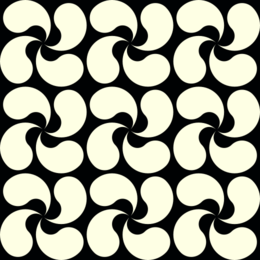
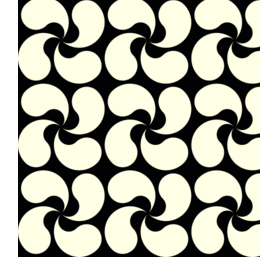
You have come a long way
put a background image
created a table for your links
created an editable region for your content on all of your pages
tomorrow create a folder for your images
import them
continue with the content and then email ralph

diff --git a/Final Project/new-file.html b/Final Project/new-file.html
@@ -3,28 +3,44 @@
 <head>
 <meta http-equiv="Content-Type" content="text/html; charset=utf-8" />
 <!-- InstanceBeginEditable name="doctitle" -->
-<title>Untitled Document</title>
+<div class="wrapper">
+  <div class="navigation">
+    <h1 align="center"> <strong>The Classic Five </strong></h1>
+    <table width="925">
+      <tr>
+        <td width="184"><div align="center"><a href="index.html">Home</a></div></td>
+        <td width="184"><div align="center"><a href="david-ruffin.html">David Ruffin</a></div></td>
+        <td width="184"><div align="center"><a href="eddie-kendricks.html">Eddie Kendricks </a></div></td>
+        <td width="184"><div align="center"><a href="melvin-franklin.html">Melvin Franklin</a></div></td>
+        <td width="184"><div align="center"><a href="paul-williams.html">Paul Williams </a></div></td>
+      	<td width="184"><div align="center"><a href="otis-williams.html">Otis Williams </a></div></td>
+        </tr>
+    </table>
+  </div> 
+  <div class="content"> </div>
+</div>
 <!-- InstanceEndEditable -->
 <!-- InstanceBeginEditable name="head" -->
-content<!-- InstanceEndEditable -->
+<!-- InstanceEndEditable -->
 <link href="styles.css" rel="stylesheet" type="text/css" />
 </head>
 
 <body>
 <div class="wrapper">
   <div class="navigation">
-    <h1 align="center"><strong>The Classic Five </strong></h1>
-    <table width="829">
+    <h1 align="center"> <strong>The Classic Five </strong></h1>
+    <table width="925">
       <tr>
-        <td width="110" height="50"><a href="index.html">Home</a></td>
-        <td width="164"><a href="david-ruffin.html">David Ruffin</a></td>
-        <td width="146"><a href="eddie-kendricks.html">Eddie Kendricks </a></td>
-        <td width="171"><a href="melvin-franklin.html">Melvin Franklin</a></td>
-        <td width="131"><a href="paul-williams.html">Paul Williams </a></td>
-      </tr>
+        <td width="184"><div align="center"><a href="index.html">Home</a></div></td>
+        <td width="184"><div align="center"><a href="david-ruffin.html">David Ruffin</a></div></td>
+        <td width="184"><div align="center"><a href="eddie-kendricks.html">Eddie Kendricks </a></div></td>
+        <td width="184"><div align="center"><a href="melvin-franklin.html">Melvin Franklin</a></div></td>
+        <td width="184"><div align="center"><a href="paul-williams.html">Paul Williams </a></div></td>
+      	<td width="184"><div align="center"><a href="otis-williams.html">Otis Williams </a></div></td>
+        </tr>
     </table>
-  </div>
-  <div class="content"> </div>
+  </div> 
+  <div class="content"><!-- InstanceBeginEditable name="home" --> This is the content for my homepage and I am starving<!-- InstanceEndEditable --></div>
 </div>
 </body>
 <!-- InstanceEnd --></html>

diff --git a/Final Project/david-ruffin.html b/Final Project/david-ruffin.html
@@ -1,10 +1,31 @@
 <!DOCTYPE html PUBLIC "-//W3C//DTD XHTML 1.0 Transitional//EN" "http://www.w3.org/TR/xhtml1/DTD/xhtml1-transitional.dtd">
-<html xmlns="http://www.w3.org/1999/xhtml">
+<html xmlns="http://www.w3.org/1999/xhtml"><!-- InstanceBegin template="/Templates/Master Template.dwt" codeOutsideHTMLIsLocked="false" -->
 <head>
 <meta http-equiv="Content-Type" content="text/html; charset=utf-8" />
+<!-- InstanceBeginEditable name="doctitle" -->
 <title>Untitled Document</title>
+<!-- InstanceEndEditable -->
+<!-- InstanceBeginEditable name="head" -->
+<!-- InstanceEndEditable -->
+<link href="styles.css" rel="stylesheet" type="text/css" />
 </head>
 
 <body>
+<div class="wrapper">
+  <div class="navigation">
+    <h1 align="center"> <strong>The Classic Five </strong></h1>
+    <table width="925">
+      <tr>
+        <td width="184"><div align="center"><a href="index.html">Home</a></div></td>
+        <td width="184"><div align="center"><a href="david-ruffin.html">David Ruffin</a></div></td>
+        <td width="184"><div align="center"><a href="eddie-kendricks.html">Eddie Kendricks </a></div></td>
+        <td width="184"><div align="center"><a href="melvin-franklin.html">Melvin Franklin</a></div></td>
+        <td width="184"><div align="center"><a href="paul-williams.html">Paul Williams </a></div></td>
+      	<td width="184"><div align="center"><a href="otis-williams.html">Otis Williams </a></div></td>
+        </tr>
+    </table>
+  </div> 
+  <div class="content"><!-- InstanceBeginEditable name="home" --> This is the content for my homepage and I am starving<!-- InstanceEndEditable --></div>
+</div>
 </body>
-</html>
+<!-- InstanceEnd --></html>

diff --git a/Final Project/eddie-kendricks.html b/Final Project/eddie-kendricks.html
@@ -1,10 +1,31 @@
 <!DOCTYPE html PUBLIC "-//W3C//DTD XHTML 1.0 Transitional//EN" "http://www.w3.org/TR/xhtml1/DTD/xhtml1-transitional.dtd">
-<html xmlns="http://www.w3.org/1999/xhtml">
+<html xmlns="http://www.w3.org/1999/xhtml"><!-- InstanceBegin template="/Templates/Master Template.dwt" codeOutsideHTMLIsLocked="false" -->
 <head>
 <meta http-equiv="Content-Type" content="text/html; charset=utf-8" />
+<!-- InstanceBeginEditable name="doctitle" -->
 <title>Untitled Document</title>
+<!-- InstanceEndEditable -->
+<!-- InstanceBeginEditable name="head" -->
+<!-- InstanceEndEditable -->
+<link href="styles.css" rel="stylesheet" type="text/css" />
 </head>
 
 <body>
+<div class="wrapper">
+  <div class="navigation">
+    <h1 align="center"> <strong>The Classic Five </strong></h1>
+    <table width="925">
+      <tr>
+        <td width="184"><div align="center"><a href="index.html">Home</a></div></td>
+        <td width="184"><div align="center"><a href="david-ruffin.html">David Ruffin</a></div></td>
+        <td width="184"><div align="center"><a href="eddie-kendricks.html">Eddie Kendricks </a></div></td>
+        <td width="184"><div align="center"><a href="melvin-franklin.html">Melvin Franklin</a></div></td>
+        <td width="184"><div align="center"><a href="paul-williams.html">Paul Williams </a></div></td>
+      	<td width="184"><div align="center"><a href="otis-williams.html">Otis Williams </a></div></td>
+        </tr>
+    </table>
+  </div> 
+  <div class="content"><!-- InstanceBeginEditable name="home" --> This is the content for my homepage and I am starving<!-- InstanceEndEditable --></div>
+</div>
 </body>
-</html>
+<!-- InstanceEnd --></html>

diff --git a/Final Project/melvin-franklin.html b/Final Project/melvin-franklin.html
@@ -1,10 +1,31 @@
 <!DOCTYPE html PUBLIC "-//W3C//DTD XHTML 1.0 Transitional//EN" "http://www.w3.org/TR/xhtml1/DTD/xhtml1-transitional.dtd">
-<html xmlns="http://www.w3.org/1999/xhtml">
+<html xmlns="http://www.w3.org/1999/xhtml"><!-- InstanceBegin template="/Templates/Master Template.dwt" codeOutsideHTMLIsLocked="false" -->
 <head>
 <meta http-equiv="Content-Type" content="text/html; charset=utf-8" />
+<!-- InstanceBeginEditable name="doctitle" -->
 <title>Untitled Document</title>
+<!-- InstanceEndEditable -->
+<!-- InstanceBeginEditable name="head" -->
+<!-- InstanceEndEditable -->
+<link href="styles.css" rel="stylesheet" type="text/css" />
 </head>
 
 <body>
+<div class="wrapper">
+  <div class="navigation">
+    <h1 align="center"> <strong>The Classic Five </strong></h1>
+    <table width="925">
+      <tr>
+        <td width="184"><div align="center"><a href="index.html">Home</a></div></td>
+        <td width="184"><div align="center"><a href="david-ruffin.html">David Ruffin</a></div></td>
+        <td width="184"><div align="center"><a href="eddie-kendricks.html">Eddie Kendricks </a></div></td>
+        <td width="184"><div align="center"><a href="melvin-franklin.html">Melvin Franklin</a></div></td>
+        <td width="184"><div align="center"><a href="paul-williams.html">Paul Williams </a></div></td>
+      	<td width="184"><div align="center"><a href="otis-williams.html">Otis Williams </a></div></td>
+        </tr>
+    </table>
+  </div> 
+  <div class="content"><!-- InstanceBeginEditable name="home" --> This is the content for my homepage and I am starving<!-- InstanceEndEditable --></div>
+</div>
 </body>
-</html>
+<!-- InstanceEnd --></html>

diff --git a/Final Project/otis-williams.html b/Final Project/otis-williams.html
@@ -1,10 +1,31 @@
 <!DOCTYPE html PUBLIC "-//W3C//DTD XHTML 1.0 Transitional//EN" "http://www.w3.org/TR/xhtml1/DTD/xhtml1-transitional.dtd">
-<html xmlns="http://www.w3.org/1999/xhtml">
+<html xmlns="http://www.w3.org/1999/xhtml"><!-- InstanceBegin template="/Templates/Master Template.dwt" codeOutsideHTMLIsLocked="false" -->
 <head>
 <meta http-equiv="Content-Type" content="text/html; charset=utf-8" />
+<!-- InstanceBeginEditable name="doctitle" -->
 <title>Untitled Document</title>
+<!-- InstanceEndEditable -->
+<!-- InstanceBeginEditable name="head" -->
+<!-- InstanceEndEditable -->
+<link href="styles.css" rel="stylesheet" type="text/css" />
 </head>
 
 <body>
+<div class="wrapper">
+  <div class="navigation">
+    <h1 align="center"> <strong>The Classic Five </strong></h1>
+    <table width="925">
+      <tr>
+        <td width="184"><div align="center"><a href="index.html">Home</a></div></td>
+        <td width="184"><div align="center"><a href="david-ruffin.html">David Ruffin</a></div></td>
+        <td width="184"><div align="center"><a href="eddie-kendricks.html">Eddie Kendricks </a></div></td>
+        <td width="184"><div align="center"><a href="melvin-franklin.html">Melvin Franklin</a></div></td>
+        <td width="184"><div align="center"><a href="paul-williams.html">Paul Williams </a></div></td>
+      	<td width="184"><div align="center"><a href="otis-williams.html">Otis Williams </a></div></td>
+        </tr>
+    </table>
+  </div> 
+  <div class="content"><!-- InstanceBeginEditable name="home" --> This is the content for my homepage and I am starving<!-- InstanceEndEditable --></div>
+</div>
 </body>
-</html>
+<!-- InstanceEnd --></html>

diff --git a/Final Project/paul-williams.html b/Final Project/paul-williams.html
@@ -1,10 +1,31 @@
 <!DOCTYPE html PUBLIC "-//W3C//DTD XHTML 1.0 Transitional//EN" "http://www.w3.org/TR/xhtml1/DTD/xhtml1-transitional.dtd">
-<html xmlns="http://www.w3.org/1999/xhtml">
+<html xmlns="http://www.w3.org/1999/xhtml"><!-- InstanceBegin template="/Templates/Master Template.dwt" codeOutsideHTMLIsLocked="false" -->
 <head>
 <meta http-equiv="Content-Type" content="text/html; charset=utf-8" />
+<!-- InstanceBeginEditable name="doctitle" -->
 <title>Untitled Document</title>
+<!-- InstanceEndEditable -->
+<!-- InstanceBeginEditable name="head" -->
+<!-- InstanceEndEditable -->
+<link href="styles.css" rel="stylesheet" type="text/css" />
 </head>
 
 <body>
+<div class="wrapper">
+  <div class="navigation">
+    <h1 align="center"> <strong>The Classic Five </strong></h1>
+    <table width="925">
+      <tr>
+        <td width="184"><div align="center"><a href="index.html">Home</a></div></td>
+        <td width="184"><div align="center"><a href="david-ruffin.html">David Ruffin</a></div></td>
+        <td width="184"><div align="center"><a href="eddie-kendricks.html">Eddie Kendricks </a></div></td>
+        <td width="184"><div align="center"><a href="melvin-franklin.html">Melvin Franklin</a></div></td>
+        <td width="184"><div align="center"><a href="paul-williams.html">Paul Williams </a></div></td>
+      	<td width="184"><div align="center"><a href="otis-williams.html">Otis Williams </a></div></td>
+        </tr>
+    </table>
+  </div> 
+  <div class="content"><!-- InstanceBeginEditable name="home" --> This is the content for my homepage and I am starving<!-- InstanceEndEditable --></div>
+</div>
 </body>
-</html>
+<!-- InstanceEnd --></html>

diff --git a/Final Project/styles.css b/Final Project/styles.css
@@ -1,7 +1,7 @@
 body {
 	font-family: Georgia, "Times New Roman", Times, serif;
 	font-size: 14px;
-	background-color: #000304;
+	background-color: #FFFFFF;
 	border-top-width: 0px;
 	border-right-width: 0px;
 	border-bottom-width: 0px;
@@ -10,9 +10,20 @@ body {
 	border-right-style: 0;
 	border-bottom-style: 0;
 	border-left-style: 0;
+	background-image: url(images/background.png);
 }
+.wrapper .content {
+	background-color: #FFF;
+	font-family: Arial, Helvetica, sans-serif;
+	font-size: 16px;
+}
+.content {
+	background-color: #FFF;
+}
+
+
 .wrapper {
-	padding: 0px;
+	padding: 5px;
 	width: 950px;
 	margin-top: 0px;
 	margin-right: auto;
@@ -21,7 +32,12 @@ body {
 	font-family: Georgia, "Times New Roman", Times, serif;
 	font-size: 20px;
 	color: #000000;
-	background-color: #6C9;
+	background-color: #CECECE;
+	line-height: normal;
+	border-top-style: solid;
+	border-right-style: solid;
+	border-bottom-style: solid;
+	border-left-style: solid;
 }
 .wrapper {
 	background-color: #FFF;
@@ -36,7 +52,7 @@ body {
 	height: auto;
 	width: auto;
 	border: thick solid #000;
-	margin: auto;
+	margin: 10px;
 	padding: 10px;
 	line-height: normal;
 	text-align: center;
